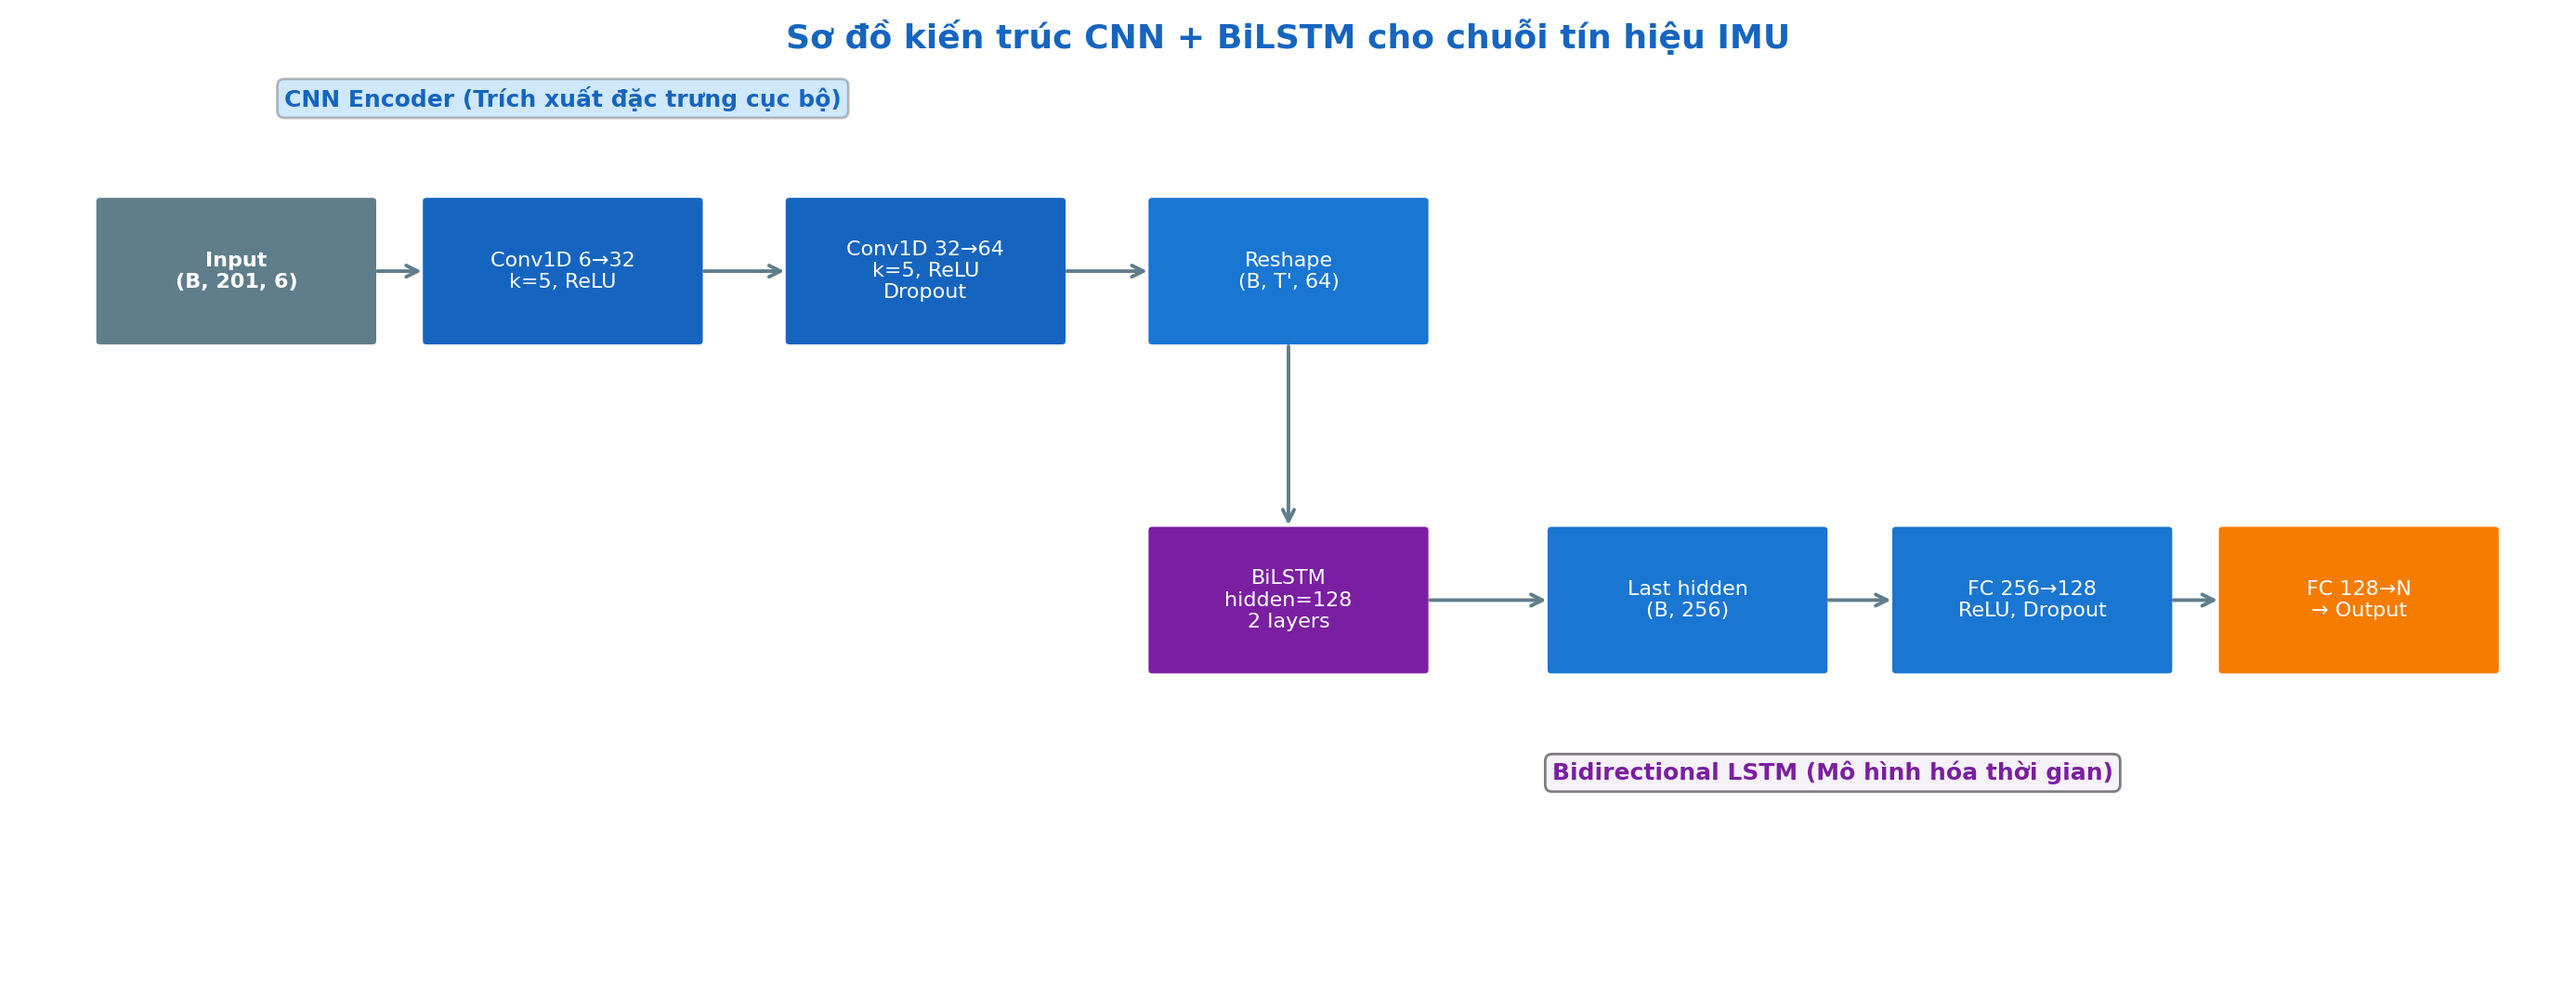
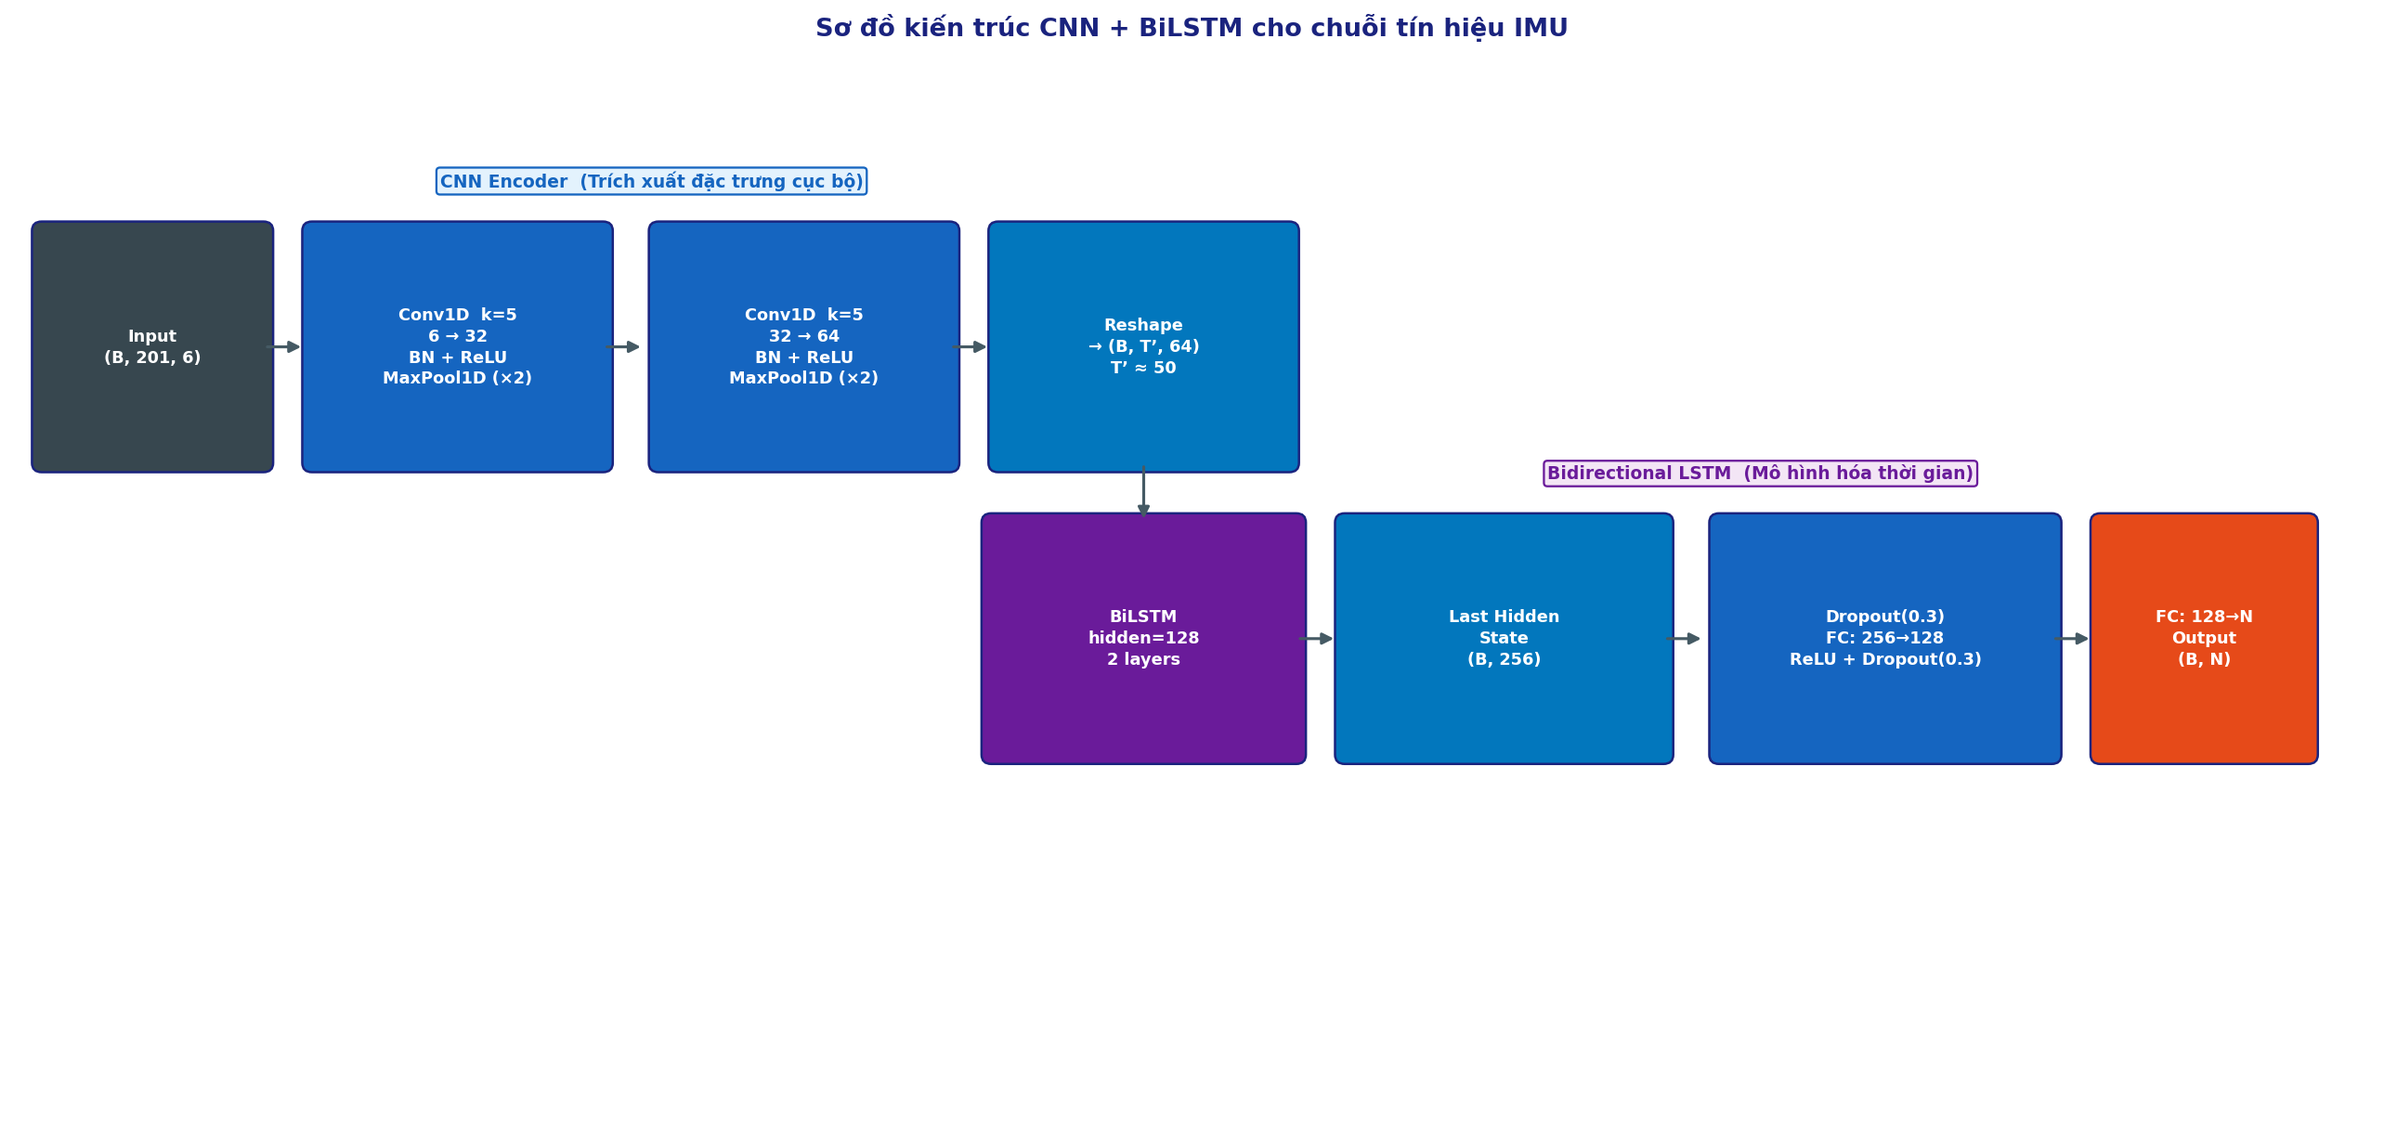
Fix README stats to match actual code results; regenerate arch diagrams
- Update model comparison table with actual test metrics from meta.json/test_preds:
  CNN1D 96.79%/96.75% F1 (56K params), CNN-BiLSTM 99.64%/99.62% (641K),
  Transformer 99.95%/99.94% (153K), GAFormer 99.62%/99.64% (20.5M)
- Remove XGBoost and SVM rows (no result files in codebase)
- Remove broken image references (Kien_truc_he_thong.png, pipeline_slide7.png)
- Fix project structure to reflect actual file layout (features.py, figures/)
- Regenerate fig_arch_lstm.png: correct BN+ReLU+MaxPool1D blocks, BiLSTM head
- Regenerate fig_arch_transformer.png: correct 2-layer FC head (64→32→N)

Changed region(s): [[0.0, 0.0, 0.9973, 0.676], [0.5921, 0.7374, 0.8414, 0.7989]]

diff --git a/README.md b/README.md
@@ -16,8 +16,6 @@ Cảm biến IMU  ──►  Tiền xử lý  ──►  Mô hình DL  ──►
 (MPU6050+ESP32)    (50Hz, 4s)       (20 lớp)        (TV / Loa / Đèn / Rèm)
 ```
 
-![Kiến trúc hệ thống](images/Kien_truc_he_thong.png)
-
 ---
 
 ## Bộ dữ liệu — SHG_Dataset
@@ -57,13 +55,11 @@ Cảm biến IMU  ──►  Tiền xử lý  ──►  Mô hình DL  ──►
 
 | Mô hình | Accuracy | F1-score | Params | Inference |
 |---|---|---|---|---|
-| CNN1D | 98.95% | 98.93% | 213K | 0.47 ms |
-| CNN-BiLSTM | 99.70% | 99.67% | 221K | 1.19 ms |
-| **Transformer** ★ | **99.85%** | **99.83%** | 285K | 4.09 ms |
-| GAFormer | 99.62% | 99.62% | 20.5M | 4.11 ms |
-| Random Forest | 100% | 100% | — | 0.10 ms |
-| XGBoost | 100% | 100% | — | 0.10 ms |
-| SVM | 94.36% | 94.27% | — | — |
+| CNN1D | 96.79% | 96.75% | 56K | 1.21 ms |
+| CNN-BiLSTM | 99.64% | 99.62% | 641K | 3.35 ms |
+| **Transformer** ★ | **99.95%** | **99.94%** | 153K | 2.67 ms |
+| GAFormer | 99.62% | 99.64% | 20.5M | 4.11 ms |
+| Random Forest | 100% | 100% | — | — |
 
 > ★ **Transformer** được chọn cho hệ thống demo — cân bằng tốt nhất giữa độ chính xác, tốc độ và kích thước mô hình.
 
@@ -85,15 +81,18 @@ Do_an/
 │   │   ├── dataset.py        # SHGDataset + DataLoader
 │   │   ├── augmentation.py   # Jitter/Scale/TimeWarp/MagnitudeWarp/ChannelDropout
 │   │   ├── trainer.py        # Vòng lặp huấn luyện + Early Stopping
-│   │   └── models_rf.py      # Random Forest, SVM, XGBoost
-│   └── demo_models/          # Các model đã train (*.pt)
+│   │   ├── models_rf.py      # Random Forest (Late Fusion)
+│   │   └── features.py       # Trích xuất đặc trưng thống kê
+│   ├── demo_models/          # Các model đã train (*.pt)
+│   └── figures/              # Biểu đồ kết quả huấn luyện
 │
 ├── gaformer/                 # GAFormer — GADF + CoAtNet-light
 │   └── src/
 │       ├── model.py          # GAFormer architecture
 │       ├── gadf.py           # Gramian Angular Difference Field transform
 │       ├── train.py          # Training script
-│       └── baselines.py      # GASF/GADF + ResNet50/CoAtNet-0 baselines
+│       ├── baselines.py      # GASF/GADF + ResNet50/CoAtNet-0 baselines
+│       └── dataset.py        # Dataset cho GAFormer
 │
 ├── demo/                     # Demo điều khiển Smart Home
 │   ├── backend/
@@ -239,8 +238,6 @@ IDLE ──(G1)──► ACTIVE ──(G14)──► STOP_PENDING ──(timeout
 ---
 
 ## Tăng cường dữ liệu
-
-![Pipeline](images/pipeline_slide7.png)
 
 | Kỹ thuật | Mô tả |
 |---|---|
